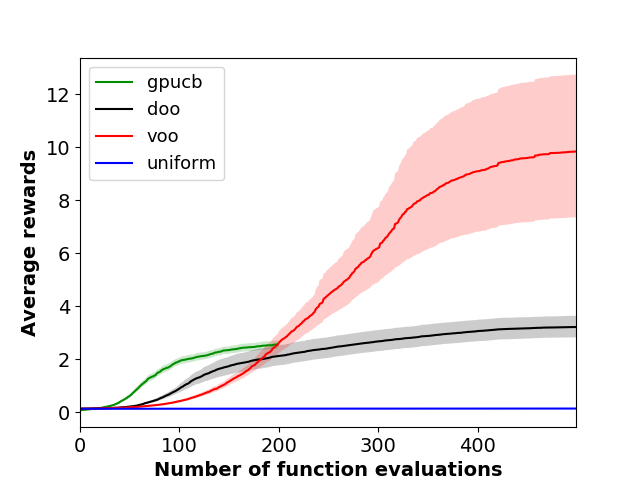
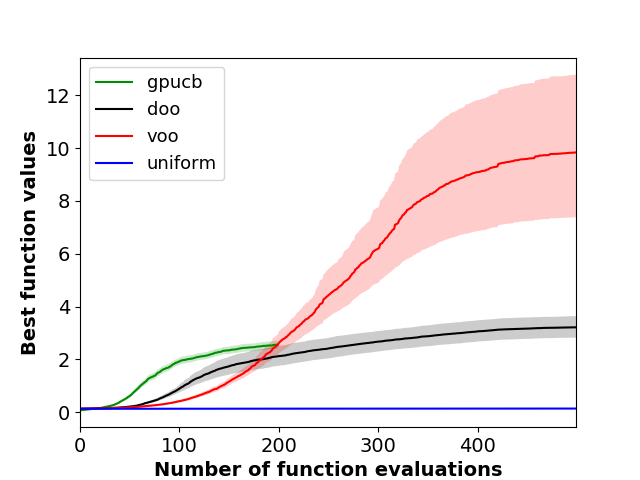
plotting

diff --git a/plotters/plot_optimization_algorithms.py b/plotters/plot_optimization_algorithms.py
@@ -136,7 +136,7 @@ def plot_across_algorithms():
         #sns.tsplot(search_rwd_times, time_takens.mean(axis=0), ci=95, condition=algo, color=color_dict[color_names[algo_idx]])
         sns.tsplot(search_rwd_times, range(n_samples), ci=95, condition=algo, color=color_dict[color_names[algo_idx]])
         print  "===================="
-    savefig('Number of function evaluations', 'Average rewards', fname='./plotters/fcn_optimization_'+str(args.dim))
+    savefig('Number of function evaluations', 'Best function values', fname='./plotters/fcn_optimization_'+str(args.dim))
 
 
 if __name__ == '__main__':
